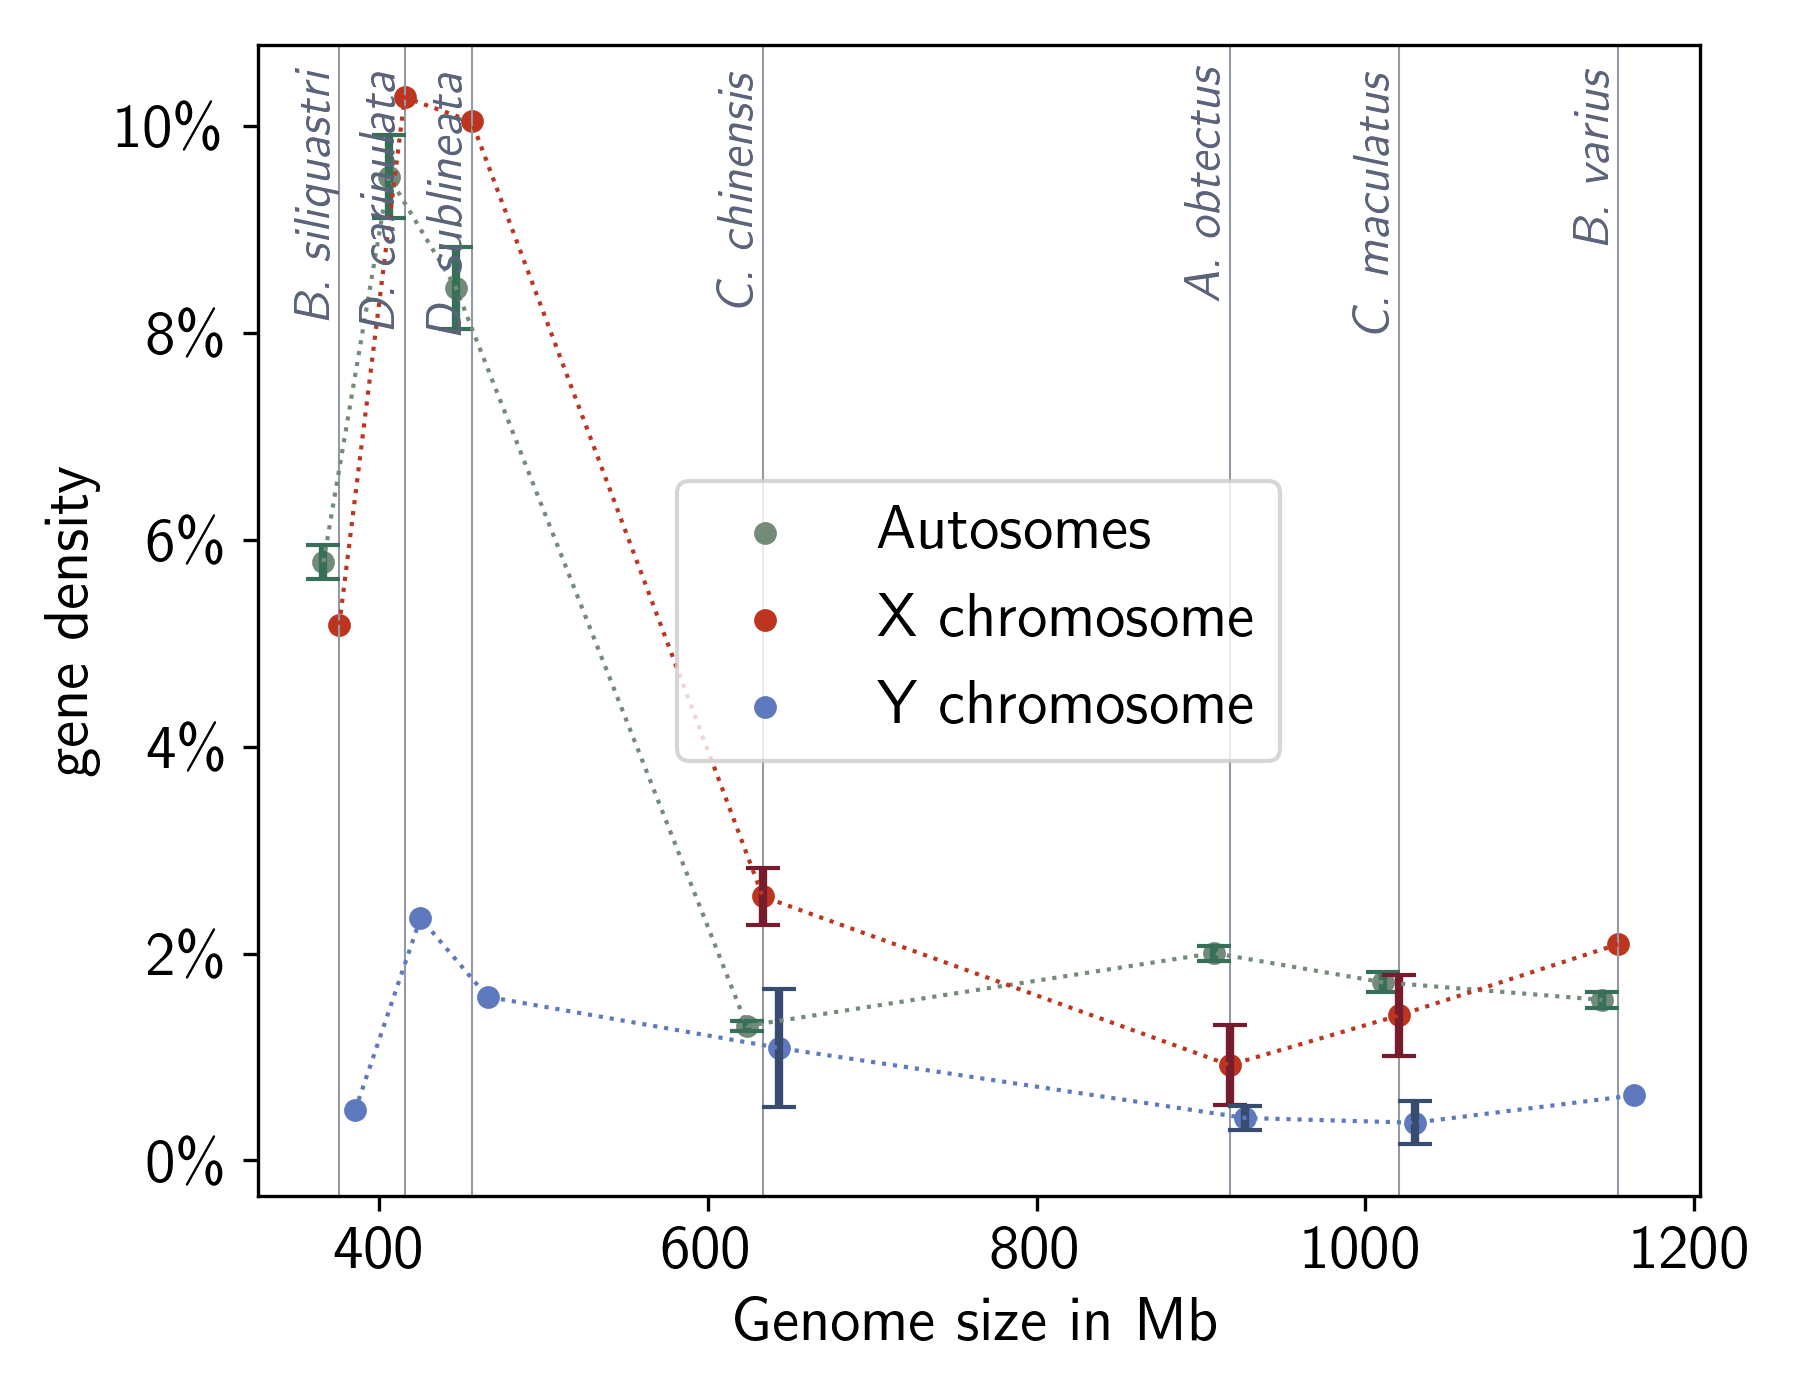
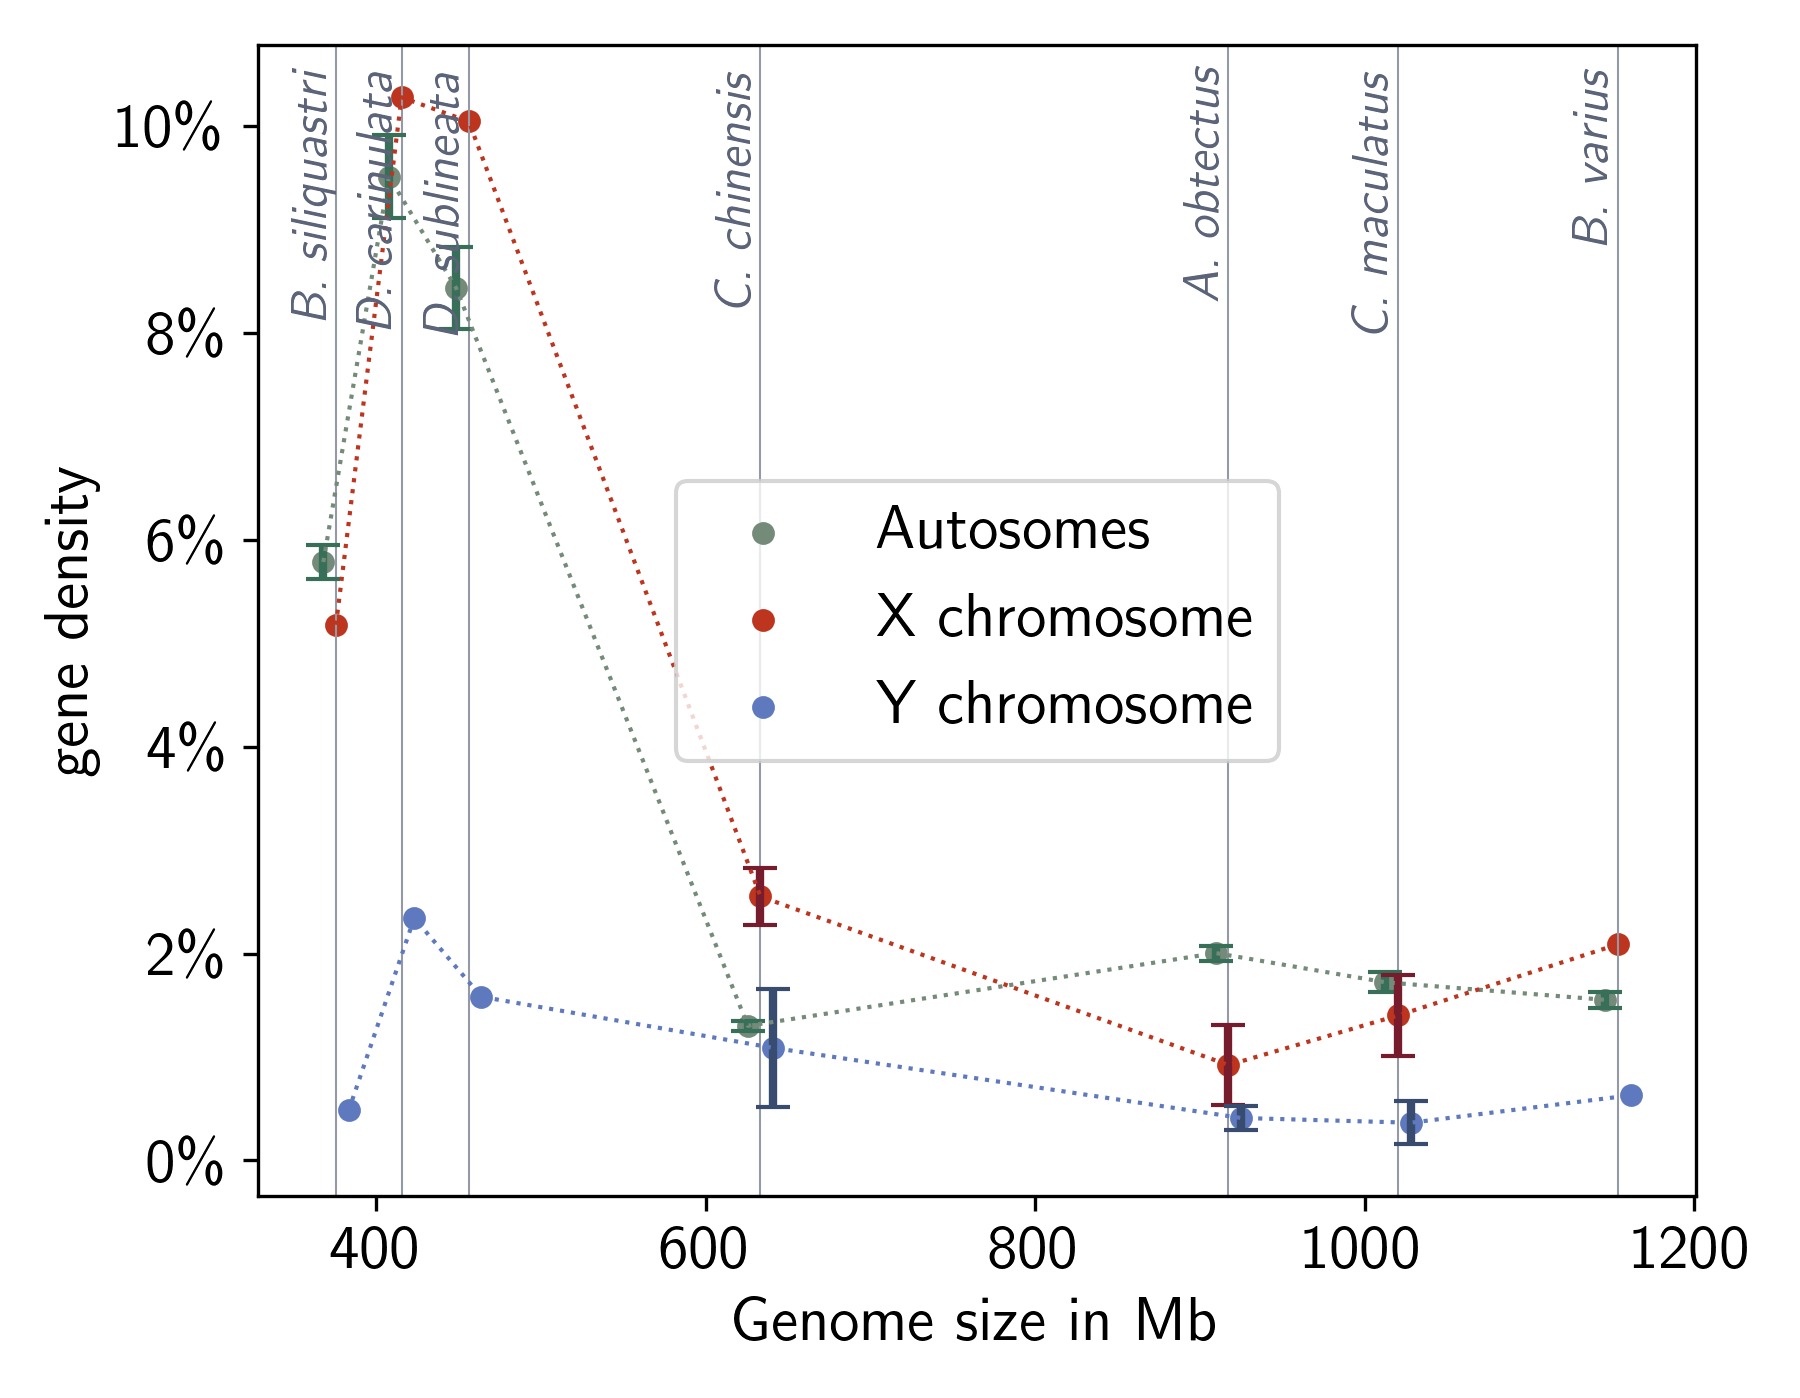
update

diff --git a/index.html b/index.html
@@ -660,6 +660,10 @@ coleoptera_samples/chinensis-M3new_ref.bam.idxstats </code></pre>
     genomes at around 400Mb, with the others being around 1Gb. <i>C. chinensis</i> does not have a green point for autosomal density, 
     since it does not have assembled autosomes, everything is in unplaced scaffolds.
 </p>
+<p>
+    The plot with the genome size has some offset for the chromosome categories for readability (otherwise a bunch of errorbars would overlap completely), 
+    the vertical lines with the species ames indicate exact GS x-axis positions.
+</p>
 
 <div style="float: left;width: 48%;">
     <p style="margin-left: 3.5em;"><b>gene annotations</b></p>

diff --git a/src/parse_orthogroups.py b/src/parse_orthogroups.py
@@ -4,6 +4,7 @@ from statistics import mean
 import linkage_groups as lg
 import parse_gff as gff
 import miniprot_stats_comparison as minialn
+from collections import defaultdict
 
 def get_orthogroup_sizes(orthogroup_dict, q = 0):
     """
@@ -99,11 +100,12 @@ def get_species_in_OG_dict(OG_dict:dict) -> list:
 
 
 class OGMember:
-    def __init__(self, transcript_ID:str, species:str, LG:lg.LinkageGroup, is_miniprot=False) -> None:
+    def __init__(self, transcript_ID:str, species:str, LG:lg.LinkageGroup, is_miniprot=False, gff_feature:gff.Feature=None) -> None:
         self.transcript_ID=transcript_ID
         self.species=species
         self.LG=LG
         self.is_miniprot=is_miniprot
+        self.gff_feature=gff_feature
     
     def __repr__(self):
         return "OrthoGroupMember"
@@ -134,15 +136,27 @@ class OrthoGroup:
                     gfsize += 1
             return gfsize
 
-    def sex_linkage(self, species):
+    def sex_linkage(self, species = ""):
         """
         return a dict of geneID lists that are X/Y or O linked (O for other, either A or unplaced)
         """
-        out_dict = {lg_ : 0 for lg_ in self.linkagegroups(species)}
-        for m in self.members:
-            if m.species==species:
-                out_dict[m.LG]+=1
-        return out_dict
+        if species !="":
+            out_dict = {lg_ : 0 for lg_ in self.linkagegroups(species)}
+            for m in self.members:
+                if m.species==species:
+                    out_dict[m.LG]+=1
+            return out_dict
+        else:
+            out_dict ={ s: {"X" : 0, "Y" : 0, "O" : 0} for s in self.species()}
+            for m in self.members:
+                if m.LG == lg.LinkageGroup.LGX:
+                    out_dict[m.species]["X"] += 1
+                if m.LG == lg.LinkageGroup.LGY:
+                    out_dict[m.species]["Y"] += 1
+                if m.LG != lg.LinkageGroup.LGY and m.LG != lg.LinkageGroup.LGX:
+                    out_dict[m.species]["O"] += 1
+            return out_dict
+
 
     def linkagegroups(self, species=""):
         if species =="":

diff --git a/src/plot_gene_density.py b/src/plot_gene_density.py
@@ -216,7 +216,7 @@ def plot_gene_density_vs_GS(gene_density_dict, annot,  outfile_name = "", chromo
         ha="right",      # sits just left of the line (use "left" for right side)
         fontsize=fs*0.8, color=colors_dict["vtext"]
     )
-    x_offset = {c:i*max(GS_list)/120 for c,i in zip(chromosome_categories,range(-1,2))}
+    x_offset = {c:i*max(GS_list)/150 for c,i in zip(chromosome_categories,range(-1,2))}
 
     for i,cat in enumerate(chromosome_categories):
         gene_density = [0.0 for s in species_names]
@@ -277,7 +277,7 @@ if __name__ == "__main__":
     gene_densities = {}
     gene_counts = {}
 
-    plot_miniprot = True
+    plot_miniprot = False
 
 
     for species, miniprot_path in miniprot_dict.items():
